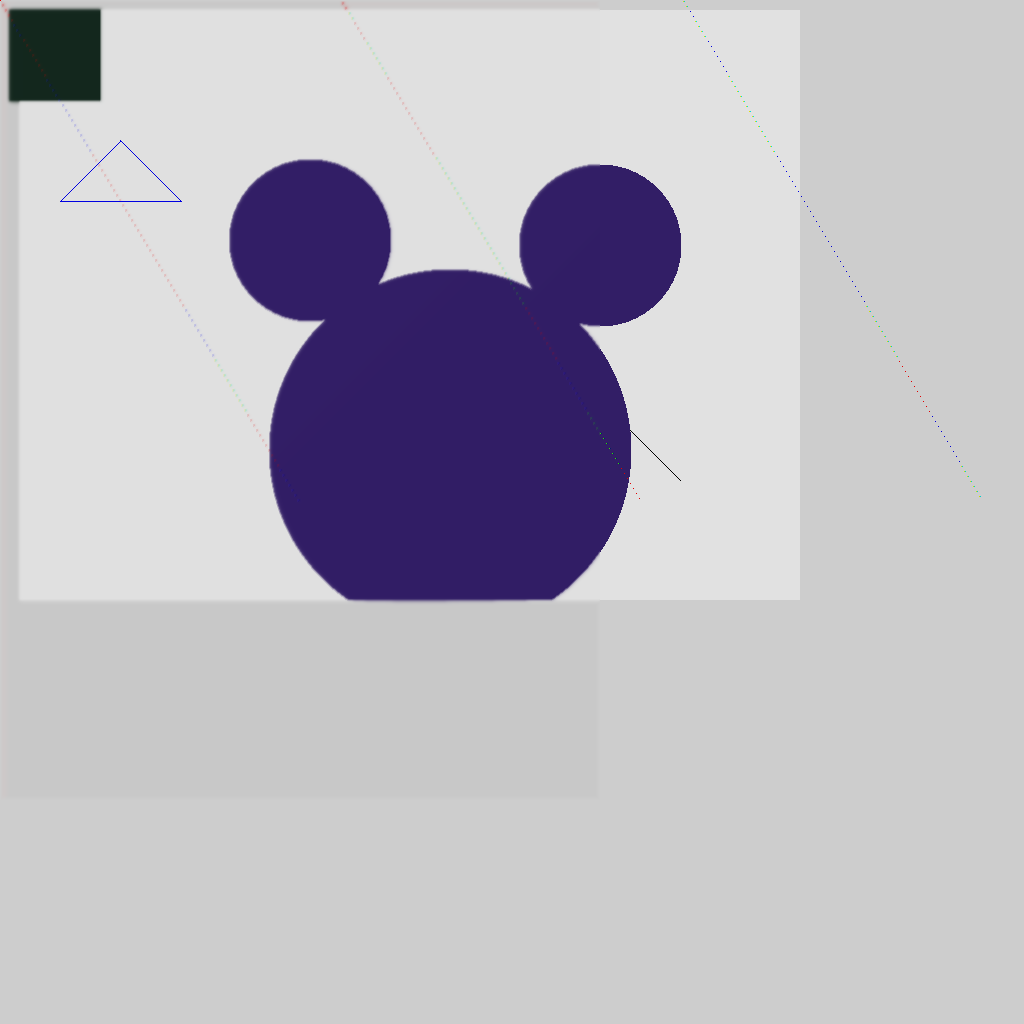
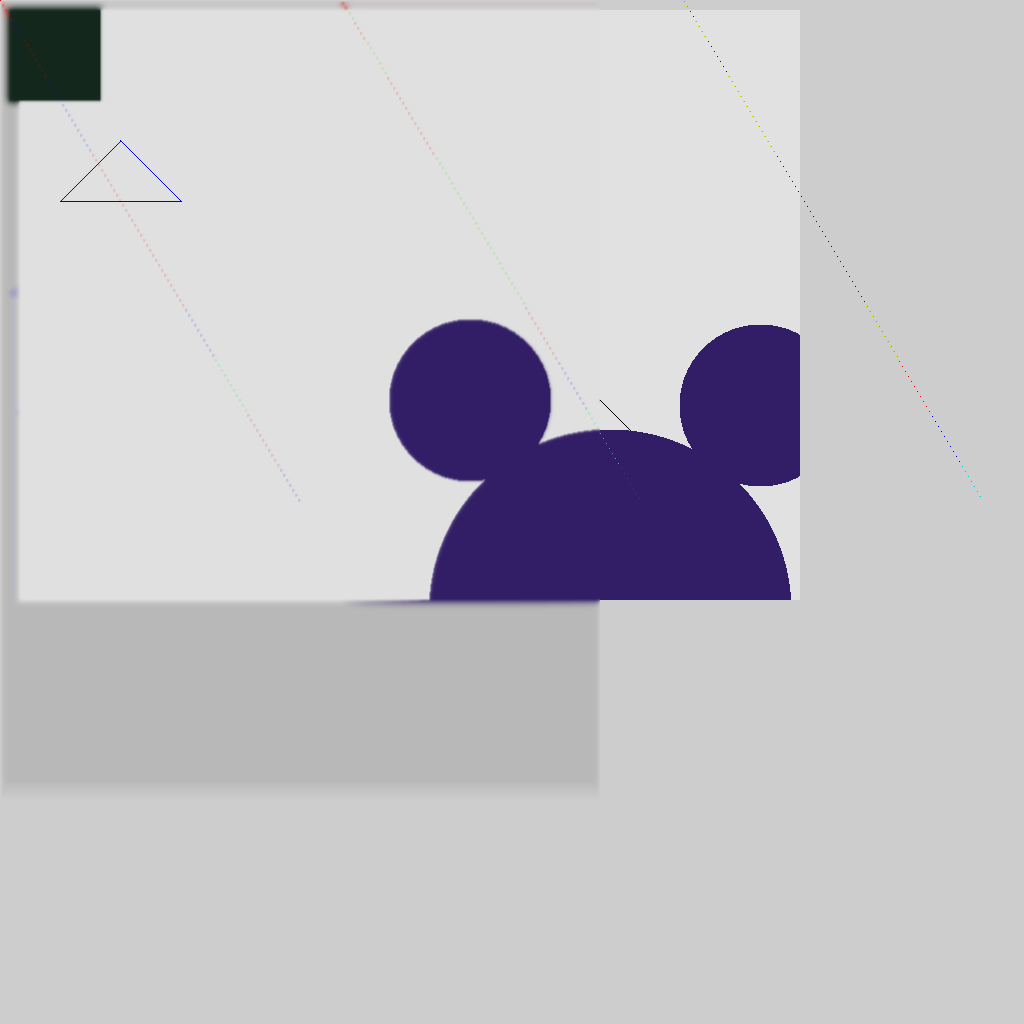
complete!
interaction works but the new  triangle appears behind everything.

Changed region(s): [[0.2188, 0.1562, 0.7812, 0.5938], [0.0, 0.0, 0.0938, 0.125]]

diff --git a/src/CatPicApp.cpp b/src/CatPicApp.cpp
@@ -9,6 +9,7 @@ CSE 274
 #include "cinder/ImageIo.h"
 #include "boost/date_time/posix_time/posix_time.hpp"
 #include "Resources.h"
+#include "cinder/Rand.h"
 
 
 using namespace ci;
@@ -23,12 +24,14 @@ class CatPicApp : public AppBasic {
 	void draw();
 	void prepareSettings(Settings* settings);
 private:
-	//Brightness of the screen
-	//float brightness;
 	//surface area that will have the shapes on it
 	Surface* mySurface_; 
 	//an int used to make objects move
 	int draw_offset;
+	//int variables for the mouse interaction method
+       int tr_randSize;
+       int tr_x;
+       int tr_y;
 
 	//the variables for the drawCircle method
 	struct circleData{
@@ -36,15 +39,15 @@ private:
 		int y;
 		int r;
 	};
-	//uint8_t* my_blur_pattern_;
 	//width and height of the screen
 	static const int kAppWidth=800;
 	static const int kAppHeight=600;
 	static const int kSurfaceSize=1024;
 //Rectangle method that draws a rectangle onto the screen.	
 void CreateRectangle(uint8_t* pixels, int x1, int y1, int x2, int y2);
+//Method draws a line on the screen,
 void drawLine(uint8_t*pixels, int length, int ptOneh, int ptTwo);
-//Method draws a circle onto the screen.
+//There thee circle methods draw circles onto the screen in the shape on mickey house.
 void drawCircles(uint8_t* dataArray, int x, int y, int r);
 void drawCircle2(uint8_t* dataArray, int x, int y, int r);
 void drawCircle3(uint8_t* dataArray, int x, int y, int r);
@@ -52,14 +55,16 @@ void drawCircle3(uint8_t* dataArray, int x, int y, int r);
 void makeLine(uint8_t* dataArray, int x0, int y0, int x1, int y1);
 //Method blurs the edges of the shapes
 void selectiveBlur(uint8_t* blur_pattern);
-//void drawAccident(uint8_t* pixels, int center_x, int center_y, int r);
 //Method clears the screen each time it is rain by painting it white first. Then the shapes are painted ontop if it.
 void clear(uint8_t* dataArray);
 //Method draws a rectangle onto the screen
 void drawTriangle(uint8_t* dataArray, int sideLength, int pointX,int pointY);
 
 };
-
+/**This menthod clears the screen each time it
+is ran so that the screen goes white. The objects 
+are then painted over the white screen.
+*/
 void CatPicApp::clear(uint8_t* dataArray){
 	//making the rectangle
 	for ( int y=10; y <= kAppHeight-1; y++){		
@@ -73,7 +78,12 @@ void CatPicApp::clear(uint8_t* dataArray){
 }
 /** This method creates the rectangle that apprears on the screen when ran.
 It makes in 4 variables to create the rectangle
-filles requirement 1
+filles requirement A.1
+@param dataArray is pixels in the array
+@param x1 is the starting coordinate of x
+@param y1 is the starting coordinate of y
+@param x2 is the ending coordinate of x
+@param y2 is the ending coordinate of y
 */
 void CatPicApp::CreateRectangle(uint8_t* dataArray, int x1, int y1, int x2, int y2){
 	//inital variables that create the start and end points of the rectangle 
@@ -100,6 +110,13 @@ void CatPicApp::CreateRectangle(uint8_t* dataArray, int x1, int y1, int x2, int 
 		}		
 	}
 }
+/**This method draws a traingle on the screen
+fills reguirment B.1
+@param dataArray is the pixels
+@param sideLength is the length of each traingle side
+@param pointX is one of the traingle points
+@param pointY is antoehr traingle point
+*/
 void CatPicApp::drawTriangle(uint8_t* dataArray, int sideLength, int pointX,int pointY){
 if((pointX<=kAppWidth)&&((pointX + sideLength) <= kAppWidth)){
 
@@ -128,9 +145,12 @@ if((pointX<=kAppWidth)&&((pointX + sideLength) <= kAppWidth)){
 }
 }
 }
-
 /*This method draws a straight line when the program is ran. 
-fills requirement 1
+fills requirement A.3
+@param dataArray are the pixels
+@param length is the length of the line
+@param ptOne is a point on the line
+@param ptTwo is another point on the line
 */
 void CatPicApp::drawLine(uint8_t*dataArray, int length, int ptOne, int ptTwo){
 	//making a line
@@ -150,14 +170,14 @@ void CatPicApp::prepareSettings(Settings* settings){
 	(*settings).setResizable(false);
 }
 
-
-void CatPicApp::mouseDown( MouseEvent event )
-{
-}
 /**This method draws a circle on the screen when ran.
 Three variables are taken in during this method to create the circle.
 This circle is also used to create part of the mickey mouse outline.
-fills requirement 1 and also helps fill the picture requirement 
+fills requirement A.2 and also helps fill the picture requirement 
+@Param dataArray are the pixels
+@param center_x is the center x coordinate 
+@param center_y is the center y coordinate
+@param r is the radius of the cirlce 
 */
 void CatPicApp::drawCircles(uint8_t* dataArray, int center_x, int center_y, int r){
 	if(r<=0) return;	
@@ -167,16 +187,21 @@ void CatPicApp::drawCircles(uint8_t* dataArray, int center_x, int center_y, int 
 				continue;
 			int distanceFromCenter = (int)sqrt((double)((x-center_x)*(x-center_x) + (y-center_y)*(y-center_y)));
 			if(distanceFromCenter <=r){
-				int offset = 3*(x+y*kSurfaceSize);
-			dataArray[offset] = 50;			
-			dataArray[offset+1] = 30;			
-			dataArray[offset+2] = 102;					
+				int equation = 3*(x+y*kSurfaceSize);
+			dataArray[equation] = 50;			
+			dataArray[equation+1] = 30;			
+			dataArray[equation+2] = 102;					
 		}
 		}
 	}
 }
-//This circle is used to create part of the mickey mouse outline
-//helps fill the picture requirement  
+/*This circle is used to create part of the mickey mouse outline
+helps fill the picture requirement  
+@Param dataArray are the pixels
+@param center_x is the center x coordinate 
+@param center_y is the center y coordinate
+@param r is the radius of the cirlce 
+*/
 void CatPicApp:: drawCircle2(uint8_t* dataArray, int center_x, int center_y, int r){
 if(r<=0) return;	
 	for (int y=center_y-r; y<=center_y+r; y++){		
@@ -193,8 +218,13 @@ if(r<=0) return;
 		}
 	}
 }
-//This method is used to creat part of the mickey mouse outline.
-//Helps fill the picture requirement 
+/*This method is used to creat part of the mickey mouse outline.
+Helps fill the picture requirement 
+@Param dataArray are the pixels
+@param center_x is the center x coordinate 
+@param center_y is the center y coordinate
+@param r is the radius of the cirlce 
+*/
 void CatPicApp:: drawCircle3(uint8_t* dataArray, int center_x, int center_y, int r){
 if(r<=0) return;	
 	for (int y=center_y-r; y<=center_y+r; y++){		
@@ -214,7 +244,7 @@ if(r<=0) return;
 }
 /**This method is a blue method and it blues the edges of the shapes
 to make the look less crsip.
-fills requirement 2
+fills requirement B.1
 */
 void CatPicApp::selectiveBlur(uint8_t* blur_pattern){
 	for(int y=1; y<= kAppHeight-1; y++){
@@ -224,7 +254,6 @@ void CatPicApp::selectiveBlur(uint8_t* blur_pattern){
 			int totalB=0;
 			for(int innerY=y-1; innerY <= y+1; innerY++){
 				for(int innerX=x-1; innerX <= x+1; innerX++){
-				//calculate offset for innerX and innerY
 					totalR = totalR + blur_pattern[3*(innerY+innerX*kSurfaceSize)];
 					totalG = totalG + blur_pattern[3*(innerY+innerX*kSurfaceSize)+1];
 					totalB = totalB + blur_pattern[3*(innerY+innerX*kSurfaceSize)+2];
@@ -233,40 +262,53 @@ void CatPicApp::selectiveBlur(uint8_t* blur_pattern){
 			blur_pattern[3*(y+x*kSurfaceSize)]=totalR/9;
 			blur_pattern[3*(y+x*kSurfaceSize)+1]=totalG/9;
 			blur_pattern[3*(y+x*kSurfaceSize)+2]=totalB/9;
-		}//calculate the offset for y and x
+		}
 	}
 }
 
 /**This method makes a few line segmenst that go across the screen
 when ran. It is a bunch of dots that a alligned very close to each other to
 look like a line.
-fills requirement 1
+fills requirement A.3
+@param dataArray are the pixels
+@param ptX0 is the staring x coordinate 
+@param ptY0 is the staring y coordinate
+@param ptX1 is the ending x coordinate
+@param ptY1 is the ending y coordinate
 */
-void CatPicApp:: makeLine(uint8_t* dataArray, int pt1x, int pt1y, int pt2x, int pt2y){
+void CatPicApp:: makeLine(uint8_t* dataArray, int ptX0, int ptY0, int ptX1, int ptY1){
 	int x, offset;
-	float disy, disx, y, midPt;
-	disy = pt2y-pt1y;
-	disx = pt2x-pt1x;
-	midPt = disy/disx;//find the midpoint
-	y = pt1y;
+	float dy, dx, y, midPt;
+	dy = ptY1 - ptY0;	
+	dx = ptX1 - ptX0;	
+	midPt = dy / dx;	
+	y = ptY0;
 
-	for(x = pt1x; x <= pt2x; x++){
+	for(x = ptX0; x <= ptX1; x++){
 		offset = 3 *(x + (y*kSurfaceSize));
-
 		dataArray[offset]=225;
 		dataArray[offset+1]=0;
 		dataArray[offset+2]=0;
 		y = y+midPt; 
 	}
 }
+/**This method allows for interaction with the user while the 
+project is being ran.
+*/
+void CatPicApp::mouseDown( MouseEvent event ){	
+tr_randSize = Rand::randInt(0, 300);	
+tr_x = event.getX();	
+tr_y = event.getY();
 
+}
 /**The update() method updates the program before it is ran each
 time. Anything  that you want to appear when ran must be declared here.
 */
 void CatPicApp::update(){
-	
-	uint8_t* dataArray = (*mySurface_).getData();
 	//needed to draw the application on the screen
+	uint8_t* dataArray = (*mySurface_).getData();
+	//allows for interaction with the triangle while the program is running 
+	drawTriangle(dataArray,tr_x, tr_y, tr_randSize);
 
 	//Clear the screen
 	clear(dataArray);
@@ -280,20 +322,17 @@ void CatPicApp::update(){
        makeLine(dataArray, 0, 0,300, 500);
        selectiveBlur(dataArray);
 	   drawTriangle(dataArray, 60,120,140);
-	//brightness = brightness + .01;
-	//if(brightness>1)
-		//brightness=0;
-	//tint = tint +.2;
-	//if(frame_number_ == 0){
 		writeImage("lackeykn.png",*mySurface_);
 }
+//This method sets up the program
 void CatPicApp::setup(){
 	mySurface_ = new Surface(kSurfaceSize,kSurfaceSize,false);
-	//brightness = .1;
-	//tint =.1;
 	draw_offset=0;
-	
+	tr_randSize=140;
+       tr_x=60;
+       tr_y=120;
 }
+//Everything is drawn in this method. Without this method nothing would get drawn on the screen.
 void CatPicApp::draw(){
 
 	//Clear the surface with a green color
@@ -303,8 +342,8 @@ void CatPicApp::draw(){
 	// clear out the window with black
 	//gl::clear( Color( .01, 2, .01 ) );
 	//setting a timer so that the mickey face moves every second.
-	Timer t;
-       t.start();
+		Timer t;
+      t.start();
        while(t.getSeconds() < 1.00){
        }
        t.stop();
